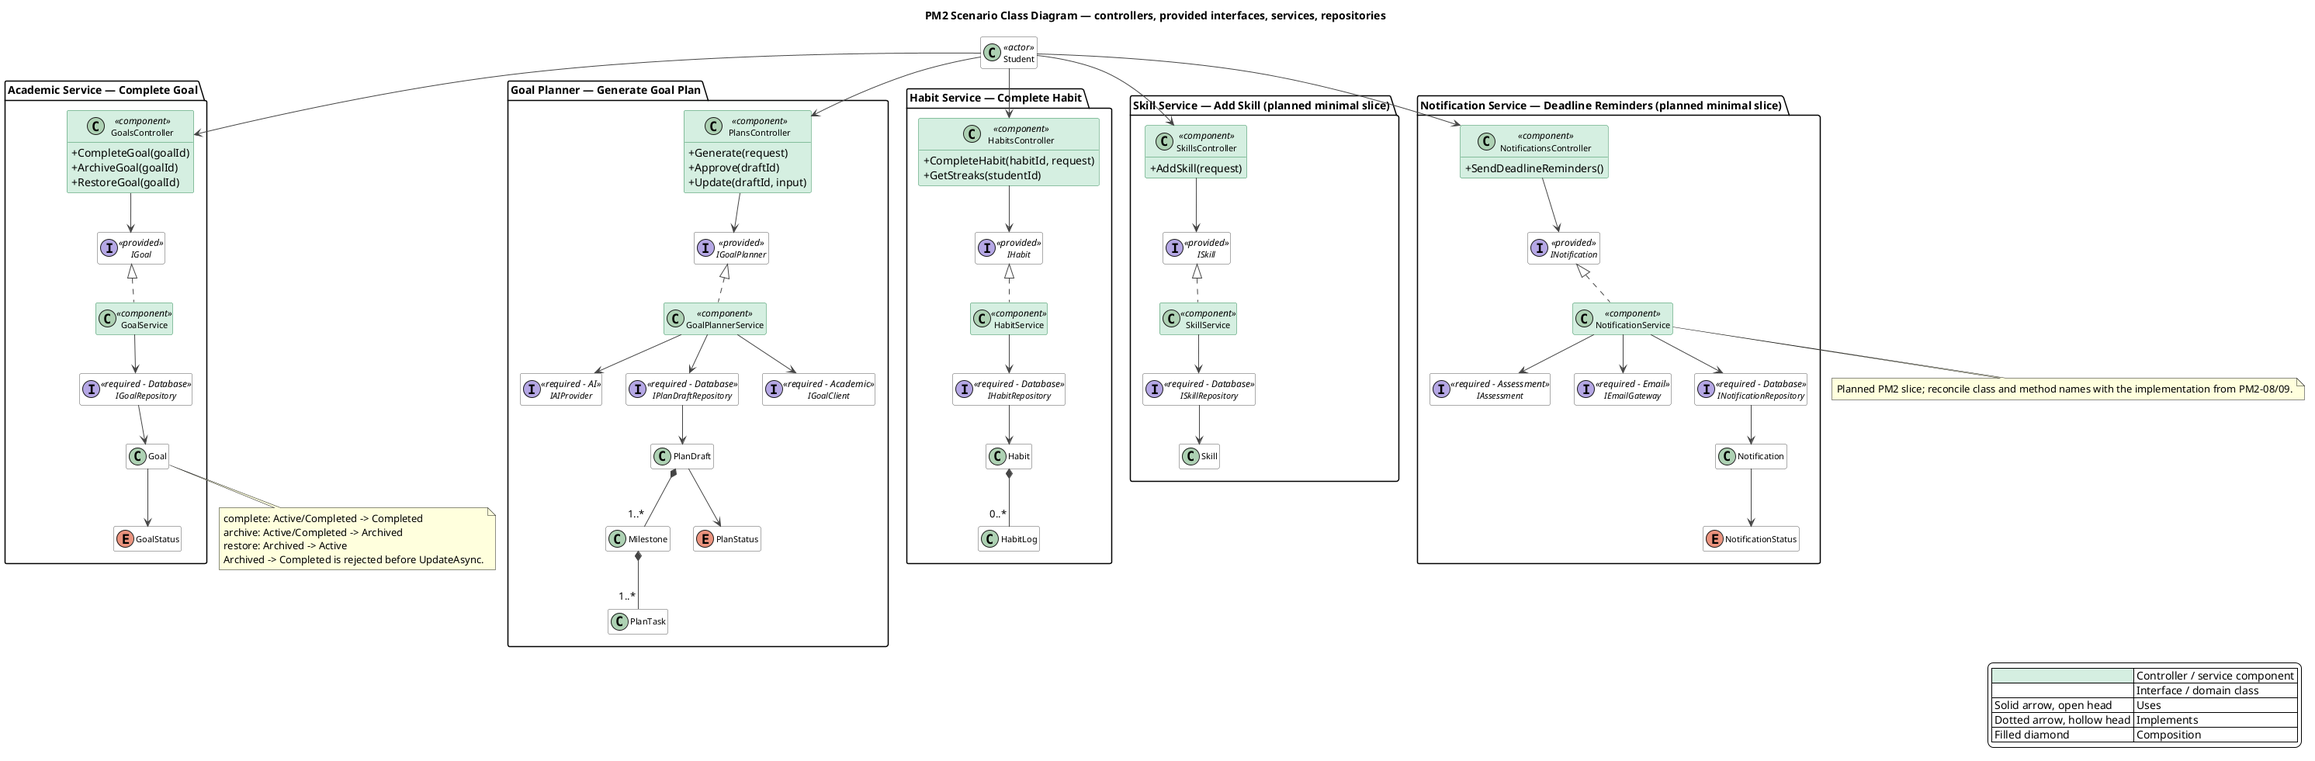
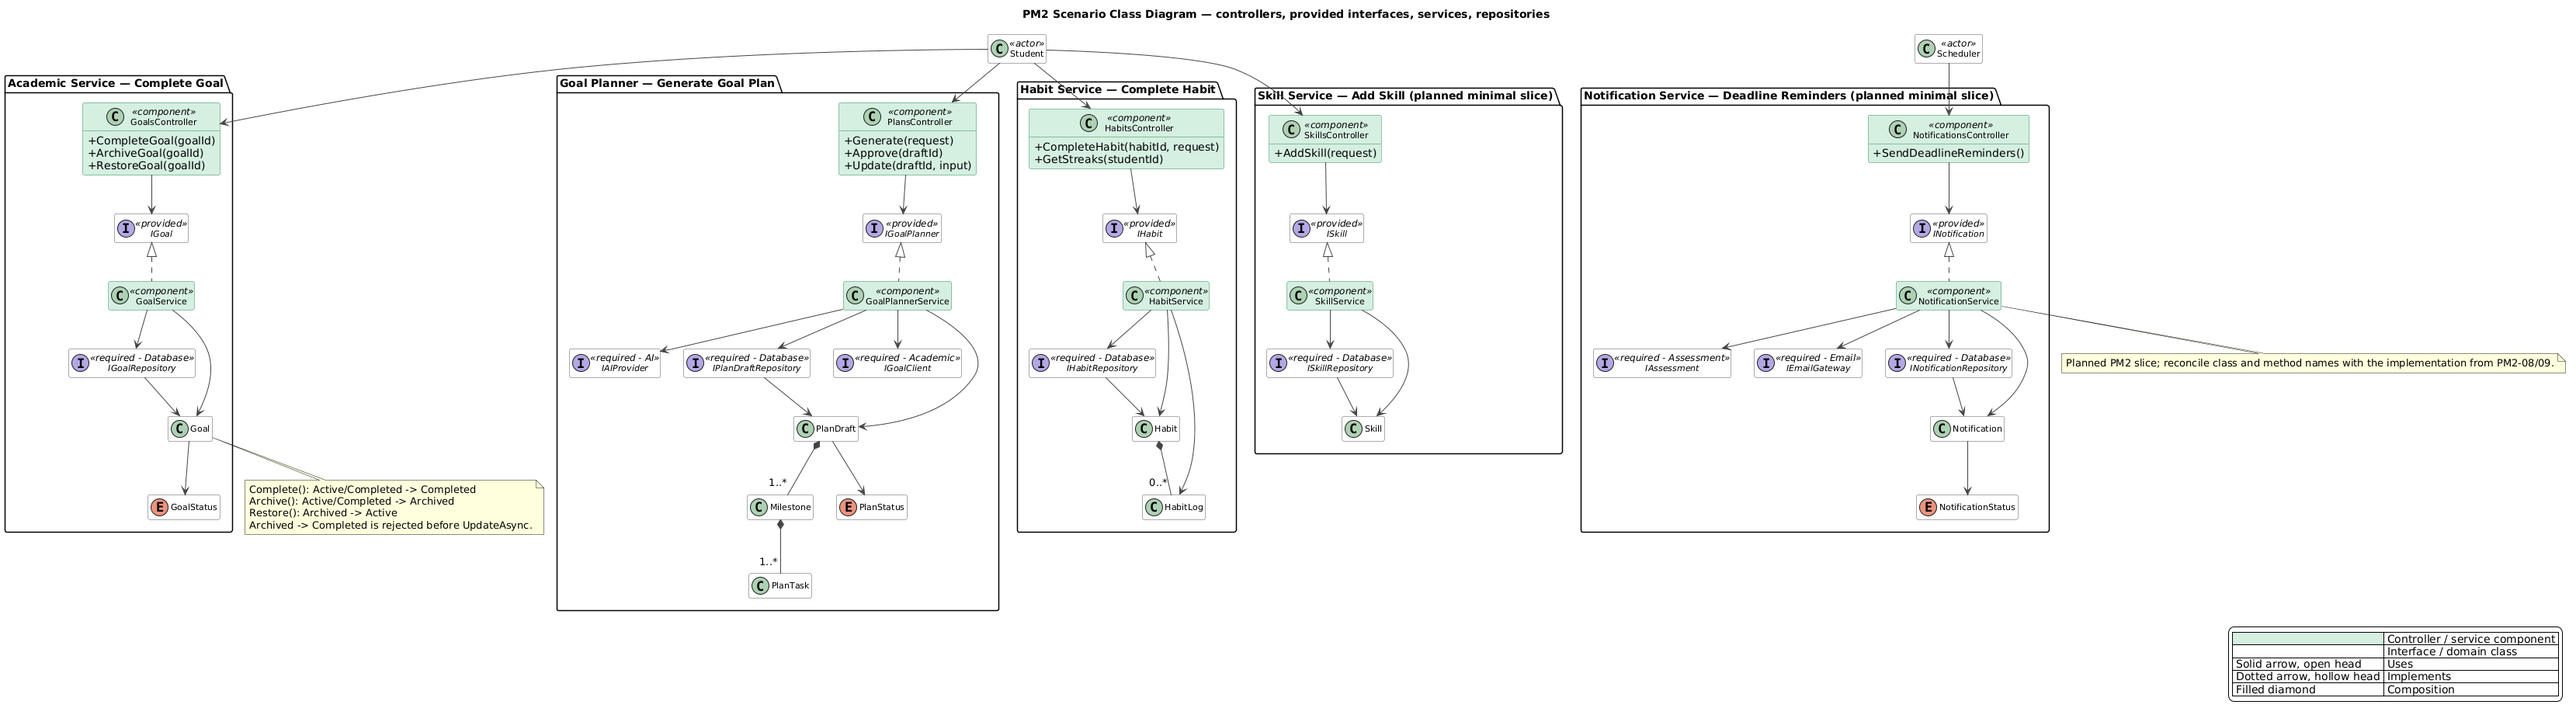
Update PM2-01 class diagrams, message-link table, and report embeds (SCRUM-175, #54)

diff --git a/docs/PM2/Part A — Design/Class Diagram/README.md b/docs/PM2/Part A — Design/Class Diagram/README.md
@@ -20,3 +20,33 @@ Updated PM2 class diagrams. Every message in the object, sequence, and collabora
 - Show interface realizations and dependency direction.
 - Include multiplicity and visibility where it clarifies the design.
 - Render each `.puml` to `.png`; commit both.
+
+## Message → Class-Link Table (PM2-01 / PM2-14)
+
+Every message in PM2-02 through PM2-09 traverses an explicit link in the updated class diagrams:
+
+| Scenario | Message | Sender → Receiver | Class-Diagram Link | Diagram(s) |
+| --- | --- | --- | --- | --- |
+| Complete Goal (PM2-02–05) | `1: POST /api/goals/{goalId}/complete` | `Student` → `GoalsController` | `Student --> GoalsController` | `00-pm2-scenario-class-diagram.puml` |
+| Complete Goal (PM2-02–05) | `1.1: CompleteGoalAsync(goalId)` | `GoalsController` → `IGoal` (`GoalService`) | `GoalsController --> IGoal`, `IGoal <\|.. GoalService` | `00-pm2-scenario-class-diagram.puml`, `02-academic-service.puml` |
+| Complete Goal (PM2-02–05) | `1.2: GetByIdAsync(goalId)` | `GoalService` → `IGoalRepository` | `GoalService --> IGoalRepository`, `IGoalRepository "1" -- "0..*" Goal` | `00-pm2-scenario-class-diagram.puml`, `02-academic-service.puml` |
+| Complete Goal (PM2-02–05) | `1.3: Complete()` | `GoalService` → `Goal` | `GoalService --> Goal`, `Goal --> GoalStatus` | `00-pm2-scenario-class-diagram.puml`, `02-academic-service.puml` |
+| Complete Goal (PM2-02–05) | `1.4: UpdateAsync(goal)` | `GoalService` → `IGoalRepository` | `GoalService --> IGoalRepository`, `GoalRepository ..\|> IGoalRepository` | `00-pm2-scenario-class-diagram.puml`, `02-academic-service.puml` |
+| Generate Goal Plan (PM2-06) | `POST /api/plans/generate` / `approve` / `update` | `Student` → `PlansController` | `Student --> PlansController` | `00-pm2-scenario-class-diagram.puml` |
+| Generate Goal Plan (PM2-06) | `GeneratePlanAsync(request)` / `ApproveAsync(draftId)` / `UpdateDraftAsync(draftId, input)` | `PlansController` → `IGoalPlanner` (`GoalPlannerService`) | `PlansController --> IGoalPlanner`, `IGoalPlanner <\|.. GoalPlannerService` | `00-pm2-scenario-class-diagram.puml`, `05-goal-planner-service.puml` |
+| Generate Goal Plan (PM2-06) | `GoalExistsAsync(goalId)` | `GoalPlannerService` → `IGoalClient` | `GoalPlannerService --> IGoalClient`, `HttpGoalClient ..\|> IGoalClient` | `00-pm2-scenario-class-diagram.puml`, `05-goal-planner-service.puml` |
+| Generate Goal Plan (PM2-06) | `GenerateAsync(prompt)` | `GoalPlannerService` → `IAIProvider` | `GoalPlannerService --> IAIProvider`, `IAIProvider ..> AiPlan` | `00-pm2-scenario-class-diagram.puml`, `05-goal-planner-service.puml` |
+| Generate Goal Plan (PM2-06) | `Approve()` | `GoalPlannerService` → `PlanDraft` | `GoalPlannerService --> PlanDraft`, `PlanDraft --> PlanStatus` | `00-pm2-scenario-class-diagram.puml`, `05-goal-planner-service.puml` |
+| Generate Goal Plan (PM2-06) | `AddAsync(draft)` / `GetByIdAsync(draftId)` / `SaveChangesAsync()` | `GoalPlannerService` → `IPlanDraftRepository` | `GoalPlannerService --> IPlanDraftRepository`, `IPlanDraftRepository "1" -- "0..*" PlanDraft` | `00-pm2-scenario-class-diagram.puml`, `05-goal-planner-service.puml` |
+| Complete Habit + streak (PM2-07) | `POST /api/habits/{habitId}/complete` | `Student` → `HabitsController` | `Student --> HabitsController` | `00-pm2-scenario-class-diagram.puml` |
+| Complete Habit + streak (PM2-07) | `CompleteHabitAsync(habitId, date)` | `HabitsController` → `IHabit` (`HabitService`) | `HabitsController --> IHabit`, `IHabit <\|.. HabitService` | `00-pm2-scenario-class-diagram.puml`, `13-habit-service.puml` |
+| Complete Habit + streak (PM2-07) | `GetHabitAsync` / `GetLogAsync` / `AddLogAsync` / `GetLogsAsync` / `SaveChangesAsync` | `HabitService` → `IHabitRepository` | `HabitService --> IHabitRepository`, `IHabitRepository "1" -- "0..*" Habit`, `IHabitRepository "1" -- "0..*" HabitLog` | `00-pm2-scenario-class-diagram.puml`, `13-habit-service.puml` |
+| Complete Habit + streak (PM2-07) | Update `CurrentStreak` / append `HabitLog` | `HabitService` → `Habit`, `HabitLog` | `HabitService --> Habit`, `HabitService --> HabitLog`, `Habit *-- "0..*" HabitLog` | `00-pm2-scenario-class-diagram.puml`, `13-habit-service.puml` |
+| Add Skill (PM2-08, planned slice) | `POST /api/skills` | `Student` → `SkillsController` | `Student --> SkillsController` | `00-pm2-scenario-class-diagram.puml` |
+| Add Skill (PM2-08, planned slice) | `AddSkillAsync(studentId, request)` | `SkillsController` → `ISkill` (`SkillService`) | `SkillsController --> ISkill`, `ISkill <\|.. SkillService` | `00-pm2-scenario-class-diagram.puml`, `skill-service.puml` |
+| Add Skill (PM2-08, planned slice) | `GetByNameAsync` / `AddAsync` / `SaveChangesAsync` | `SkillService` → `ISkillRepository` / `Skill` | `SkillService --> ISkillRepository`, `SkillService --> Skill`, `ISkillRepository "1" -- "0..*" Skill` | `00-pm2-scenario-class-diagram.puml`, `skill-service.puml` |
+| Send Deadline Reminders (PM2-09, planned slice) | `POST /api/notifications/deadline-reminders` | `Scheduler` → `NotificationsController` | `Scheduler --> NotificationsController` | `00-pm2-scenario-class-diagram.puml` |
+| Send Deadline Reminders (PM2-09, planned slice) | `SendDeadlineRemindersAsync(studentId, days)` | `NotificationsController` → `INotification` (`NotificationService`) | `NotificationsController --> INotification`, `INotification <\|.. NotificationService` | `00-pm2-scenario-class-diagram.puml`, `notification-service.puml` |
+| Send Deadline Reminders (PM2-09, planned slice) | `GetDeadlinesAsync(studentId, days)` | `NotificationService` → `IAssessment` | `NotificationService --> IAssessment`, `IAssessment ..> Deadline` | `00-pm2-scenario-class-diagram.puml`, `notification-service.puml` |
+| Send Deadline Reminders (PM2-09, planned slice) | `SendAsync(to, subject, body)` | `NotificationService` → `IEmailGateway` | `NotificationService --> IEmailGateway` | `00-pm2-scenario-class-diagram.puml`, `notification-service.puml` |
+| Send Deadline Reminders (PM2-09, planned slice) | `AddAsync` / `SaveChangesAsync` & status update | `NotificationService` → `INotificationRepository` / `Notification` | `NotificationService --> INotificationRepository`, `NotificationService --> Notification`, `Notification --> NotificationStatus` | `00-pm2-scenario-class-diagram.puml`, `notification-service.puml` |

diff --git a/docs/PM2/report.md b/docs/PM2/report.md
@@ -93,19 +93,45 @@ Each scenario uses the same participants across its object, sequence, and collab
 
 ### A.2 Updated class diagrams
 
-The class diagrams were updated first so every message in the scenario diagrams maps to an existing link.
+The class diagrams were updated first so every message in the scenario diagrams maps to an existing link. The complete message → class-link mapping table is maintained in [`Part A — Design/Class Diagram/README.md`](Part%20A%20%E2%80%94%20Design/Class%20Diagram/README.md).
 
 | Diagram | Scope | Status |
 | --- | --- | --- |
-| `Part A — Design/Class Diagram/00-pm2-scenario-class-diagram.puml` | Cross-service scenario view | Drafted; PNG rendered |
-| `Part A — Design/Class Diagram/02-academic-service.puml` | Goal and completion flow | Drafted; PNG rendered |
-| `Part A — Design/Class Diagram/03-course-service.puml` | Course boundary | Drafted; PNG rendered |
-| `Part A — Design/Class Diagram/05-goal-planner-service.puml` | Plan generation and approval | Drafted; PNG rendered |
-| `Part A — Design/Class Diagram/13-habit-service.puml` | Habit completion and streak | Drafted; PNG rendered |
-| `Part A — Design/Class Diagram/skill-service.puml` | Add Skill planned slice | Baseline drafted; reconcile with PM2-08 |
-| `Part A — Design/Class Diagram/notification-service.puml` | Deadline reminders planned slice | Baseline drafted; reconcile with PM2-09 |
+| `Part A — Design/Class Diagram/00-pm2-scenario-class-diagram.puml` | Cross-service scenario view | Updated & verified; PNG rendered |
+| `Part A — Design/Class Diagram/02-academic-service.puml` | Goal and completion flow | Updated & verified; PNG rendered |
+| `Part A — Design/Class Diagram/03-course-service.puml` | Course boundary | Updated & verified; PNG rendered |
+| `Part A — Design/Class Diagram/05-goal-planner-service.puml` | Plan generation and approval | Updated & verified; PNG rendered |
+| `Part A — Design/Class Diagram/13-habit-service.puml` | Habit completion and streak | Updated & verified; PNG rendered |
+| `Part A — Design/Class Diagram/skill-service.puml` | Add Skill planned slice | Planned baseline updated; reconcile with PM2-08 |
+| `Part A — Design/Class Diagram/notification-service.puml` | Deadline reminders planned slice | Planned baseline updated; reconcile with PM2-09 |
 
-<!-- Embed updated class diagram PNGs here after PM2-01 is complete. -->
+#### Cross-service PM2 scenario class diagram
+
+![PM2 Scenario Class Diagram](Part%20A%20%E2%80%94%20Design/Class%20Diagram/00-pm2-scenario-class-diagram.png)
+
+#### Academic Service (`academic-service`, FR-02)
+
+![Academic Service Class Diagram](Part%20A%20%E2%80%94%20Design/Class%20Diagram/02-academic-service.png)
+
+#### Course Service (`course-service`, FR-03)
+
+![Course Service Class Diagram](Part%20A%20%E2%80%94%20Design/Class%20Diagram/03-course-service.png)
+
+#### Goal Planner Service (`goal-planner-service`, FR-05)
+
+![Goal Planner Service Class Diagram](Part%20A%20%E2%80%94%20Design/Class%20Diagram/05-goal-planner-service.png)
+
+#### Habit Service (`habit-service`, FR-13)
+
+![Habit Service Class Diagram](Part%20A%20%E2%80%94%20Design/Class%20Diagram/13-habit-service.png)
+
+#### Skill Service (`skill-service`, FR-10 — planned minimal slice)
+
+![Skill Service Class Diagram](Part%20A%20%E2%80%94%20Design/Class%20Diagram/skill-service.png)
+
+#### Notification Service (`notification-service`, FR-18 — planned minimal slice)
+
+![Notification Service Class Diagram](Part%20A%20%E2%80%94%20Design/Class%20Diagram/notification-service.png)
 
 ### A.3 Object diagrams
 

diff --git a/docs/PM2/Part D — Traceability/Design-Code-Mapping.md b/docs/PM2/Part D — Traceability/Design-Code-Mapping.md
@@ -2,6 +2,20 @@
 
 This file maps every PM2 design artifact to the code and test that implement it. Each row is verifiable by path.
 
+## Updated Class Diagrams & Message-to-Link Backbone (PM2-01)
+
+The full scenario message → class-diagram link verification table is maintained in [`Part A — Design/Class Diagram/README.md`](../Part%20A%20%E2%80%94%20Design/Class%20Diagram/README.md#message--class-link-table-pm2-01--pm2-14).
+
+| Class diagram | Implemented code verified against | Status |
+| --- | --- | --- |
+| `Part A — Design/Class Diagram/00-pm2-scenario-class-diagram.puml` | Cross-service view across all 5 PM2 scenarios (`Student` & `Scheduler` actors → controllers → interfaces → services → repositories/clients → domain) | Updated & rendered |
+| `Part A — Design/Class Diagram/02-academic-service.puml` | `src/Services/AcademicService/` (`GoalsController`, `IGoal`, `GoalService`, `IGoalRepository`, `GoalRepository`, `AcademicDbContext`, `Goal`, `GoalStatus`) | Updated & rendered |
+| `Part A — Design/Class Diagram/03-course-service.puml` | `src/Services/CourseService/` (`CoursesController`, `ICourse`, `CourseService`, `IAssessmentClient`, `HttpAssessmentClient`, `ICourseRepository`, `CourseRepository`, `CourseDbContext`, `Course`, `CourseEnrollment`, `CourseProgress`, `AssessmentItem`) | Updated & rendered |
+| `Part A — Design/Class Diagram/05-goal-planner-service.puml` | `src/Services/GoalPlannerService/` (`PlansController`, `IGoalPlanner`, `GoalPlannerService`, `IGoalClient`, `HttpGoalClient`, `IAIProvider`, `MockAIProvider`, `IPlanDraftRepository`, `PlanDraftRepository`, `GoalPlannerDbContext`, `PlanDraft`, `Milestone`, `PlanTask`, `AiPlan`, `PlanStatus`) | Updated & rendered |
+| `Part A — Design/Class Diagram/13-habit-service.puml` | `src/Services/HabitService/` (`HabitsController`, `IHabit`, `HabitService`, `IHabitRepository`, `HabitRepository`, `HabitDbContext`, `Habit`, `HabitLog`, `HabitFrequency`) | Updated & rendered |
+| `Part A — Design/Class Diagram/skill-service.puml` | `src/Services/SkillService/` (Dockerfile only — planned minimal slice, reconcile with PM2-08) | Planned baseline updated & rendered |
+| `Part A — Design/Class Diagram/notification-service.puml` | `src/Services/NotificationService/` (Dockerfile only — planned minimal slice, reconcile with PM2-09) | Planned baseline updated & rendered |
+
 ## Complete Goal (PM2-01–PM2-05)
 
 | Design artifact | Code | Test |
